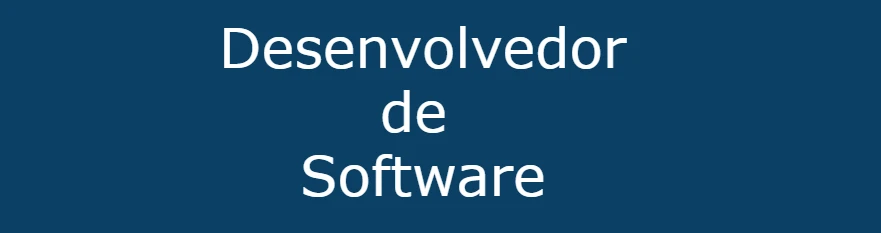
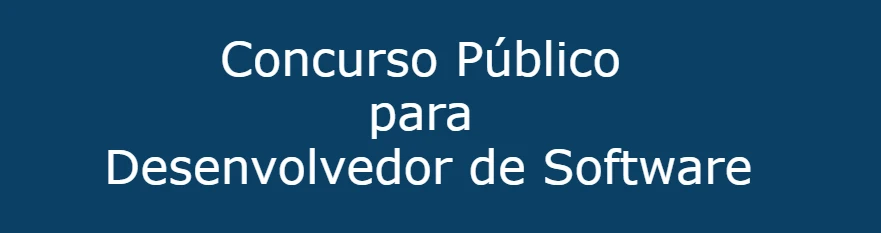
fix: Ajustes de layout e correções de overflow revisado!

Changed region(s): [[0.1226, 0.6309, 0.8581, 0.8412], [0.2452, 0.1202, 0.7355, 0.3305], [0.3984, 0.3906, 0.5516, 0.6009]]

diff --git a/public/js/main.js b/public/js/main.js
@@ -30,7 +30,7 @@ class HomeComponent {
     }
 }
 HomeComponent.ɵfac = function HomeComponent_Factory(t) { return new (t || HomeComponent)(); };
-HomeComponent.ɵcmp = _angular_core__WEBPACK_IMPORTED_MODULE_0__["ɵɵdefineComponent"]({ type: HomeComponent, selectors: [["app-home"]], decls: 40, vars: 0, consts: [[1, "container", "p-3"], [1, "row"], [1, "col-md-6"], [1, "card", "mb-3"], [1, "card-header", "bg-white"], [1, "card-title"], [1, "fa", "fa-list-ul", 2, "font-size", "16px", "color", "#0066cc"], [1, "card-body"], [1, "col-md-12", "corpo"], [1, "table", "table-bordered"], ["colspan", "2", 1, "titulo"], ["width", "60%"], ["width", "40%"], ["colspan", "2"]], template: function HomeComponent_Template(rf, ctx) { if (rf & 1) {
+HomeComponent.ɵcmp = _angular_core__WEBPACK_IMPORTED_MODULE_0__["ɵɵdefineComponent"]({ type: HomeComponent, selectors: [["app-home"]], decls: 49, vars: 0, consts: [[1, "container", "p-3", "root-home"], [1, "row"], [1, "col-md-6"], [1, "card", "mb-3"], [1, "card-header", "bg-white"], [1, "card-title"], [1, "fa", "fa-list-ul", 2, "font-size", "16px", "color", "#0066cc"], [1, "card-body"], [1, "col-md-12", "corpo"], [1, "table", "table-bordered"], ["colspan", "2", 1, "titulo"], ["width", "60%"], ["width", "40%"], ["colspan", "2"]], template: function HomeComponent_Template(rf, ctx) { if (rf & 1) {
         _angular_core__WEBPACK_IMPORTED_MODULE_0__["ɵɵelementStart"](0, "div", 0);
         _angular_core__WEBPACK_IMPORTED_MODULE_0__["ɵɵelementStart"](1, "div", 1);
         _angular_core__WEBPACK_IMPORTED_MODULE_0__["ɵɵelementStart"](2, "div", 2);
@@ -51,7 +51,7 @@ HomeComponent.ɵcmp = _angular_core__WEBPACK_IMPORTED_MODULE_0__["ɵɵdefineComp
         _angular_core__WEBPACK_IMPORTED_MODULE_0__["ɵɵelementEnd"]();
         _angular_core__WEBPACK_IMPORTED_MODULE_0__["ɵɵelement"](14, "hr");
         _angular_core__WEBPACK_IMPORTED_MODULE_0__["ɵɵelementStart"](15, "p");
-        _angular_core__WEBPACK_IMPORTED_MODULE_0__["ɵɵtext"](16, "A Luzia Iliane Vacarin, Prefeita do Munic\u00EDpio de Cunha Por\u00E3, torna p\u00FAblica a abertura das inscri\u00E7\u00F5es do Concurso P\u00FAblico, destinado ao provimento de vagas no quadro de servidores p\u00FAblicos do Munic\u00EDpio de Cunha Por\u00E3, que ser\u00E1 regido pela legisla\u00E7\u00E3o em vigor e pelas normas estabelecidas no presente Edital.");
+        _angular_core__WEBPACK_IMPORTED_MODULE_0__["ɵɵtext"](16, " Est\u00E3o abertas as inscri\u00E7\u00F5es do Concurso P\u00FAblico destinado ao provimento da vaga de Desenvolvedor de Software. ");
         _angular_core__WEBPACK_IMPORTED_MODULE_0__["ɵɵelementEnd"]();
         _angular_core__WEBPACK_IMPORTED_MODULE_0__["ɵɵelementEnd"]();
         _angular_core__WEBPACK_IMPORTED_MODULE_0__["ɵɵelementEnd"]();
@@ -92,6 +92,19 @@ HomeComponent.ɵcmp = _angular_core__WEBPACK_IMPORTED_MODULE_0__["ɵɵdefineComp
         _angular_core__WEBPACK_IMPORTED_MODULE_0__["ɵɵtext"](39, "\u00A0");
         _angular_core__WEBPACK_IMPORTED_MODULE_0__["ɵɵelementEnd"]();
         _angular_core__WEBPACK_IMPORTED_MODULE_0__["ɵɵelementEnd"]();
+        _angular_core__WEBPACK_IMPORTED_MODULE_0__["ɵɵelementStart"](40, "tr");
+        _angular_core__WEBPACK_IMPORTED_MODULE_0__["ɵɵelementStart"](41, "td", 13);
+        _angular_core__WEBPACK_IMPORTED_MODULE_0__["ɵɵtext"](42, "\u00A0");
+        _angular_core__WEBPACK_IMPORTED_MODULE_0__["ɵɵelementEnd"]();
+        _angular_core__WEBPACK_IMPORTED_MODULE_0__["ɵɵelementEnd"]();
+        _angular_core__WEBPACK_IMPORTED_MODULE_0__["ɵɵelementStart"](43, "tr");
+        _angular_core__WEBPACK_IMPORTED_MODULE_0__["ɵɵelementStart"](44, "td", 13);
+        _angular_core__WEBPACK_IMPORTED_MODULE_0__["ɵɵtext"](45, "\u00A0");
+        _angular_core__WEBPACK_IMPORTED_MODULE_0__["ɵɵelementEnd"]();
+        _angular_core__WEBPACK_IMPORTED_MODULE_0__["ɵɵelementEnd"]();
+        _angular_core__WEBPACK_IMPORTED_MODULE_0__["ɵɵelementStart"](46, "tr");
+        _angular_core__WEBPACK_IMPORTED_MODULE_0__["ɵɵelementStart"](47, "td", 13);
+        _angular_core__WEBPACK_IMPORTED_MODULE_0__["ɵɵtext"](48, "\u00A0");
         _angular_core__WEBPACK_IMPORTED_MODULE_0__["ɵɵelementEnd"]();
         _angular_core__WEBPACK_IMPORTED_MODULE_0__["ɵɵelementEnd"]();
         _angular_core__WEBPACK_IMPORTED_MODULE_0__["ɵɵelementEnd"]();
@@ -101,7 +114,9 @@ HomeComponent.ɵcmp = _angular_core__WEBPACK_IMPORTED_MODULE_0__["ɵɵdefineComp
         _angular_core__WEBPACK_IMPORTED_MODULE_0__["ɵɵelementEnd"]();
         _angular_core__WEBPACK_IMPORTED_MODULE_0__["ɵɵelementEnd"]();
         _angular_core__WEBPACK_IMPORTED_MODULE_0__["ɵɵelementEnd"]();
[1 lines of base64/hex data omitted]
+        _angular_core__WEBPACK_IMPORTED_MODULE_0__["ɵɵelementEnd"]();
+        _angular_core__WEBPACK_IMPORTED_MODULE_0__["ɵɵelementEnd"]();
[1 lines of base64/hex data omitted]
 
 
 /***/ }),
@@ -271,7 +286,7 @@ __webpack_require__.r(__webpack_exports__);
 
 
 function NavbarComponent_img_1_Template(rf, ctx) { if (rf & 1) {
-    _angular_core__WEBPACK_IMPORTED_MODULE_0__["ɵɵelement"](0, "img", 16);
+    _angular_core__WEBPACK_IMPORTED_MODULE_0__["ɵɵelement"](0, "img", 15);
 } }
 class NavbarComponent {
     constructor() {
@@ -296,7 +311,7 @@ class NavbarComponent {
     }
 }
 NavbarComponent.ɵfac = function NavbarComponent_Factory(t) { return new (t || NavbarComponent)(); };
-NavbarComponent.ɵcmp = _angular_core__WEBPACK_IMPORTED_MODULE_0__["ɵɵdefineComponent"]({ type: NavbarComponent, selectors: [["app-navbar"]], inputs: { hasImageHeader: "hasImageHeader" }, decls: 34, vars: 3, consts: [[1, "root-nav"], ["src", "assets/img/banner.webp", "alt", "Logo", "class", "img-fluid", "style", "width: 100%; height: 100%;", 4, "ngIf"], [1, "navbar", "navbar-expand-lg", "navbar-light", "bg-light"], [1, "container"], ["routerLink", "/", 1, "navbar-brand"], ["src", "assets/img/logo-fepese.png", "alt", "Logo", "width", "70", 1, "img-fluid"], ["type", "button", 1, "navbar-toggler", 3, "click"], [1, "navbar-toggler-icon"], ["id", "navbarNav", 1, "collapse", "navbar-collapse", "justify-content-end"], [1, "navbar-nav"], [1, "nav-item", 3, "click"], ["routerLink", "/", 1, "nav-link"], ["routerLink", "/edital", 1, "nav-item", 3, "click"], [1, "nav-link"], [1, "nav-item", "no-header-bg", 3, "click"], ["routerLink", "/concurso", 1, "nav-link"], ["src", "assets/img/banner.webp", "alt", "Logo", 1, "img-fluid", 2, "width", "100%", "height", "100%"]], template: function NavbarComponent_Template(rf, ctx) { if (rf & 1) {
+NavbarComponent.ɵcmp = _angular_core__WEBPACK_IMPORTED_MODULE_0__["ɵɵdefineComponent"]({ type: NavbarComponent, selectors: [["app-navbar"]], inputs: { hasImageHeader: "hasImageHeader" }, decls: 22, vars: 3, consts: [[1, "root-nav"], ["src", "assets/img/banner.webp", "alt", "Logo", "class", "img-fluid", "style", "width: 100%; height: 100%;", 4, "ngIf"], [1, "navbar", "navbar-expand-lg", "navbar-light", "bg-light"], [1, "container"], ["routerLink", "/", 1, "navbar-brand"], ["src", "assets/img/logo-fepese.png", "alt", "Logo", "width", "70", 1, "img-fluid"], ["type", "button", 1, "navbar-toggler", 3, "click"], [1, "navbar-toggler-icon"], ["id", "navbarNav", 1, "collapse", "navbar-collapse", "justify-content-end"], [1, "navbar-nav"], [1, "nav-item", 3, "click"], ["routerLink", "/", 1, "nav-link"], ["routerLink", "/edital", 1, "nav-link"], [1, "nav-item", "no-header-bg", 3, "click"], ["routerLink", "/concurso", 1, "nav-link"], ["src", "assets/img/banner.webp", "alt", "Logo", 1, "img-fluid", 2, "width", "100%", "height", "100%"]], template: function NavbarComponent_Template(rf, ctx) { if (rf & 1) {
         _angular_core__WEBPACK_IMPORTED_MODULE_0__["ɵɵelementStart"](0, "div", 0);
         _angular_core__WEBPACK_IMPORTED_MODULE_0__["ɵɵtemplate"](1, NavbarComponent_img_1_Template, 1, 0, "img", 1);
         _angular_core__WEBPACK_IMPORTED_MODULE_0__["ɵɵelementStart"](2, "nav", 2);
@@ -317,40 +332,19 @@ NavbarComponent.ɵcmp = _angular_core__WEBPACK_IMPORTED_MODULE_0__["ɵɵdefineCo
         _angular_core__WEBPACK_IMPORTED_MODULE_0__["ɵɵelementEnd"]();
         _angular_core__WEBPACK_IMPORTED_MODULE_0__["ɵɵelement"](13, "div");
         _angular_core__WEBPACK_IMPORTED_MODULE_0__["ɵɵelementEnd"]();
-        _angular_core__WEBPACK_IMPORTED_MODULE_0__["ɵɵelementStart"](14, "li", 12);
+        _angular_core__WEBPACK_IMPORTED_MODULE_0__["ɵɵelementStart"](14, "li", 10);
         _angular_core__WEBPACK_IMPORTED_MODULE_0__["ɵɵlistener"]("click", function NavbarComponent_Template_li_click_14_listener($event) { return ctx.selected($event); });
-        _angular_core__WEBPACK_IMPORTED_MODULE_0__["ɵɵelementStart"](15, "a", 13);
+        _angular_core__WEBPACK_IMPORTED_MODULE_0__["ɵɵelementStart"](15, "a", 12);
         _angular_core__WEBPACK_IMPORTED_MODULE_0__["ɵɵtext"](16, "Edital");
         _angular_core__WEBPACK_IMPORTED_MODULE_0__["ɵɵelementEnd"]();
         _angular_core__WEBPACK_IMPORTED_MODULE_0__["ɵɵelement"](17, "div");
         _angular_core__WEBPACK_IMPORTED_MODULE_0__["ɵɵelementEnd"]();
-        _angular_core__WEBPACK_IMPORTED_MODULE_0__["ɵɵelementStart"](18, "li", 10);
+        _angular_core__WEBPACK_IMPORTED_MODULE_0__["ɵɵelementStart"](18, "li", 13);
         _angular_core__WEBPACK_IMPORTED_MODULE_0__["ɵɵlistener"]("click", function NavbarComponent_Template_li_click_18_listener($event) { return ctx.selected($event); });
-        _angular_core__WEBPACK_IMPORTED_MODULE_0__["ɵɵelementStart"](19, "a", 13);
-        _angular_core__WEBPACK_IMPORTED_MODULE_0__["ɵɵtext"](20, "Perguntas");
+        _angular_core__WEBPACK_IMPORTED_MODULE_0__["ɵɵelementStart"](19, "a", 14);
+        _angular_core__WEBPACK_IMPORTED_MODULE_0__["ɵɵtext"](20, "Inscri\u00E7\u00E3o");
         _angular_core__WEBPACK_IMPORTED_MODULE_0__["ɵɵelementEnd"]();
         _angular_core__WEBPACK_IMPORTED_MODULE_0__["ɵɵelement"](21, "div");
-        _angular_core__WEBPACK_IMPORTED_MODULE_0__["ɵɵelementEnd"]();
-        _angular_core__WEBPACK_IMPORTED_MODULE_0__["ɵɵelementStart"](22, "li", 10);
-        _angular_core__WEBPACK_IMPORTED_MODULE_0__["ɵɵlistener"]("click", function NavbarComponent_Template_li_click_22_listener($event) { return ctx.selected($event); });
-        _angular_core__WEBPACK_IMPORTED_MODULE_0__["ɵɵelementStart"](23, "a", 13);
-        _angular_core__WEBPACK_IMPORTED_MODULE_0__["ɵɵtext"](24, "Legisla\u00E7\u00E3o");
-        _angular_core__WEBPACK_IMPORTED_MODULE_0__["ɵɵelementEnd"]();
-        _angular_core__WEBPACK_IMPORTED_MODULE_0__["ɵɵelement"](25, "div");
-        _angular_core__WEBPACK_IMPORTED_MODULE_0__["ɵɵelementEnd"]();
-        _angular_core__WEBPACK_IMPORTED_MODULE_0__["ɵɵelementStart"](26, "li", 10);
-        _angular_core__WEBPACK_IMPORTED_MODULE_0__["ɵɵlistener"]("click", function NavbarComponent_Template_li_click_26_listener($event) { return ctx.selected($event); });
-        _angular_core__WEBPACK_IMPORTED_MODULE_0__["ɵɵelementStart"](27, "a", 13);
-        _angular_core__WEBPACK_IMPORTED_MODULE_0__["ɵɵtext"](28, "Cronograma");
-        _angular_core__WEBPACK_IMPORTED_MODULE_0__["ɵɵelementEnd"]();
-        _angular_core__WEBPACK_IMPORTED_MODULE_0__["ɵɵelement"](29, "div");
-        _angular_core__WEBPACK_IMPORTED_MODULE_0__["ɵɵelementEnd"]();
-        _angular_core__WEBPACK_IMPORTED_MODULE_0__["ɵɵelementStart"](30, "li", 14);
-        _angular_core__WEBPACK_IMPORTED_MODULE_0__["ɵɵlistener"]("click", function NavbarComponent_Template_li_click_30_listener($event) { return ctx.selected($event); });
-        _angular_core__WEBPACK_IMPORTED_MODULE_0__["ɵɵelementStart"](31, "a", 15);
-        _angular_core__WEBPACK_IMPORTED_MODULE_0__["ɵɵtext"](32, "Inscri\u00E7\u00E3o");
-        _angular_core__WEBPACK_IMPORTED_MODULE_0__["ɵɵelementEnd"]();
-        _angular_core__WEBPACK_IMPORTED_MODULE_0__["ɵɵelement"](33, "div");
         _angular_core__WEBPACK_IMPORTED_MODULE_0__["ɵɵelementEnd"]();
         _angular_core__WEBPACK_IMPORTED_MODULE_0__["ɵɵelementEnd"]();
         _angular_core__WEBPACK_IMPORTED_MODULE_0__["ɵɵelementEnd"]();
@@ -362,7 +356,7 @@ NavbarComponent.ɵcmp = _angular_core__WEBPACK_IMPORTED_MODULE_0__["ɵɵdefineCo
         _angular_core__WEBPACK_IMPORTED_MODULE_0__["ɵɵproperty"]("ngIf", ctx.hasImageHeader);
         _angular_core__WEBPACK_IMPORTED_MODULE_0__["ɵɵadvance"](7);
         _angular_core__WEBPACK_IMPORTED_MODULE_0__["ɵɵclassProp"]("show", ctx.isMenuOpen);
[2 lines of base64/hex data omitted]
 
 
 /***/ }),
@@ -385,7 +379,7 @@ class EditalComponent {
     }
 }
 EditalComponent.ɵfac = function EditalComponent_Factory(t) { return new (t || EditalComponent)(); };
-EditalComponent.ɵcmp = _angular_core__WEBPACK_IMPORTED_MODULE_0__["ɵɵdefineComponent"]({ type: EditalComponent, selectors: [["app-edital"]], decls: 19, vars: 0, consts: [[1, "container", "m-4"], [1, "row", "justify-content-center"], [1, "col-md-8"], [1, "card"], [1, "card-header", "bg-light", "titulo"], [1, "fa", "fa-file", 2, "font-size", "16px", "color", "#0066cc"], [1, "card-body"], [1, "table-responsive"], [1, "table"], [1, "linkEdital"], ["href", "assets/files/Requisitos.pdf", "target", "_blank", 1, "linkEdital"]], template: function EditalComponent_Template(rf, ctx) { if (rf & 1) {
+EditalComponent.ɵcmp = _angular_core__WEBPACK_IMPORTED_MODULE_0__["ɵɵdefineComponent"]({ type: EditalComponent, selectors: [["app-edital"]], decls: 19, vars: 0, consts: [[1, "container", "m-4", "root-edital"], [1, "row", "justify-content-center"], [1, "col-md-8"], [1, "card"], [1, "card-header", "bg-light", "titulo"], [1, "fa", "fa-file", 2, "font-size", "16px", "color", "#0066cc"], [1, "card-body"], [1, "table-responsive"], [1, "table"], [1, "linkEdital"], ["href", "assets/files/Requisitos.pdf", "target", "_blank", 1, "linkEdital"]], template: function EditalComponent_Template(rf, ctx) { if (rf & 1) {
         _angular_core__WEBPACK_IMPORTED_MODULE_0__["ɵɵelementStart"](0, "div", 0);
         _angular_core__WEBPACK_IMPORTED_MODULE_0__["ɵɵelementStart"](1, "div", 1);
         _angular_core__WEBPACK_IMPORTED_MODULE_0__["ɵɵelementStart"](2, "div", 2);
@@ -420,7 +414,7 @@ EditalComponent.ɵcmp = _angular_core__WEBPACK_IMPORTED_MODULE_0__["ɵɵdefineCo
         _angular_core__WEBPACK_IMPORTED_MODULE_0__["ɵɵelementEnd"]();
         _angular_core__WEBPACK_IMPORTED_MODULE_0__["ɵɵelementEnd"]();
         _angular_core__WEBPACK_IMPORTED_MODULE_0__["ɵɵelementEnd"]();
[2 lines of base64/hex data omitted]
 
 
 /***/ }),
@@ -668,7 +662,7 @@ RegistrationComponent.ɵcmp = _angular_core__WEBPACK_IMPORTED_MODULE_0__["ɵɵde
         _angular_core__WEBPACK_IMPORTED_MODULE_0__["ɵɵproperty"]("ngIf", ctx.states.length);
         _angular_core__WEBPACK_IMPORTED_MODULE_0__["ɵɵadvance"](1);
         _angular_core__WEBPACK_IMPORTED_MODULE_0__["ɵɵproperty"]("showSnacbar", ctx.showSnacbar);
[2 lines of base64/hex data omitted]
 
 
 /***/ }),

diff --git a/resources/assets/concurso/src/app/pages/home/home.component.html b/resources/assets/concurso/src/app/pages/home/home.component.html
@@ -1,4 +1,4 @@
-<div class="container p-3">
+<div class="container p-3 root-home">
     <div class="row">
       <div class="col-md-6">
         <div class="card mb-3">
@@ -16,7 +16,9 @@
                   
                 </p>
                 <hr>
-                <p>A Luzia Iliane Vacarin, Prefeita do Município de Cunha Porã, torna pública a abertura das inscrições do Concurso Público, destinado ao provimento de vagas no quadro de servidores públicos do Município de Cunha Porã, que será regido pela legislação em vigor e pelas normas estabelecidas no presente Edital.</p>
+                <p>
+                    Estão abertas as inscrições do Concurso Público destinado ao provimento da vaga de Desenvolvedor de Software.
+                </p>
               </div>
             </div>
           </div>
@@ -44,6 +46,16 @@
                     <tr>
                       <td colspan="2">&nbsp;</td>
                     </tr>
+                    <tr>
+                      <td colspan="2">&nbsp;</td>
+                    </tr>
+                    <tr>
+                      <td colspan="2">&nbsp;</td>
+                    </tr>
+                    <tr>
+                      <td colspan="2">&nbsp;</td>
+                    </tr>
+                   
                   </tbody>
                 </table>
               </div>

diff --git a/resources/assets/concurso/src/app/components/navbar/navbar.component.html b/resources/assets/concurso/src/app/components/navbar/navbar.component.html
@@ -15,22 +15,11 @@
                     <a class="nav-link" routerLink="/">Home</a>
                     <div></div>
                   </li>
-                  <li class="nav-item" routerLink="/edital" (click)="selected($event)">
-                    <a class="nav-link" >Edital</a>
+                  <li class="nav-item"  (click)="selected($event)">
+                    <a class="nav-link" routerLink="/edital">Edital</a>
                     <div></div>
                   </li>
-                  <li class="nav-item" (click)="selected($event)">
-                    <a class="nav-link" >Perguntas</a>
-                    <div></div>
-                  </li>
-                  <li class="nav-item" (click)="selected($event)">
-                    <a class="nav-link" >Legislação</a>
-                    <div></div>
-                  </li>
-                  <li class="nav-item" (click)="selected($event)">
-                    <a class="nav-link" >Cronograma</a>
-                    <div></div>
-                  </li>
+                  
                   <li class="nav-item no-header-bg" (click)="selected($event)">
                     <a class="nav-link" routerLink="/concurso">Inscrição</a>
                     <div></div>

diff --git a/resources/assets/concurso/src/app/pages/edital/edital.component.html b/resources/assets/concurso/src/app/pages/edital/edital.component.html
@@ -1,4 +1,4 @@
-<div class="container m-4">
+<div class="container m-4 root-edital">
     <div class="row justify-content-center">
       <div class="col-md-8">
         <div class="card">

diff --git a/resources/assets/concurso/src/app/pages/registration/registration.component.scss b/resources/assets/concurso/src/app/pages/registration/registration.component.scss
@@ -3,7 +3,7 @@
 }
 .root{
     width: 100%;
-    height: 100vh;
+    height: 130vh;
     background-color: var(---color-primary);
 }
 .setTitle{

diff --git a/resources/assets/concurso/src/app/pages/home/home.component.scss b/resources/assets/concurso/src/app/pages/home/home.component.scss
@@ -1,4 +1,7 @@
-
+.root-home{
+    
+    height: auto;
+}
 
 
   

diff --git a/resources/assets/concurso/src/app/pages/edital/edital.component.scss b/resources/assets/concurso/src/app/pages/edital/edital.component.scss
@@ -1,0 +1,3 @@
+.root-edital{
+    height: 50vh;
+}
